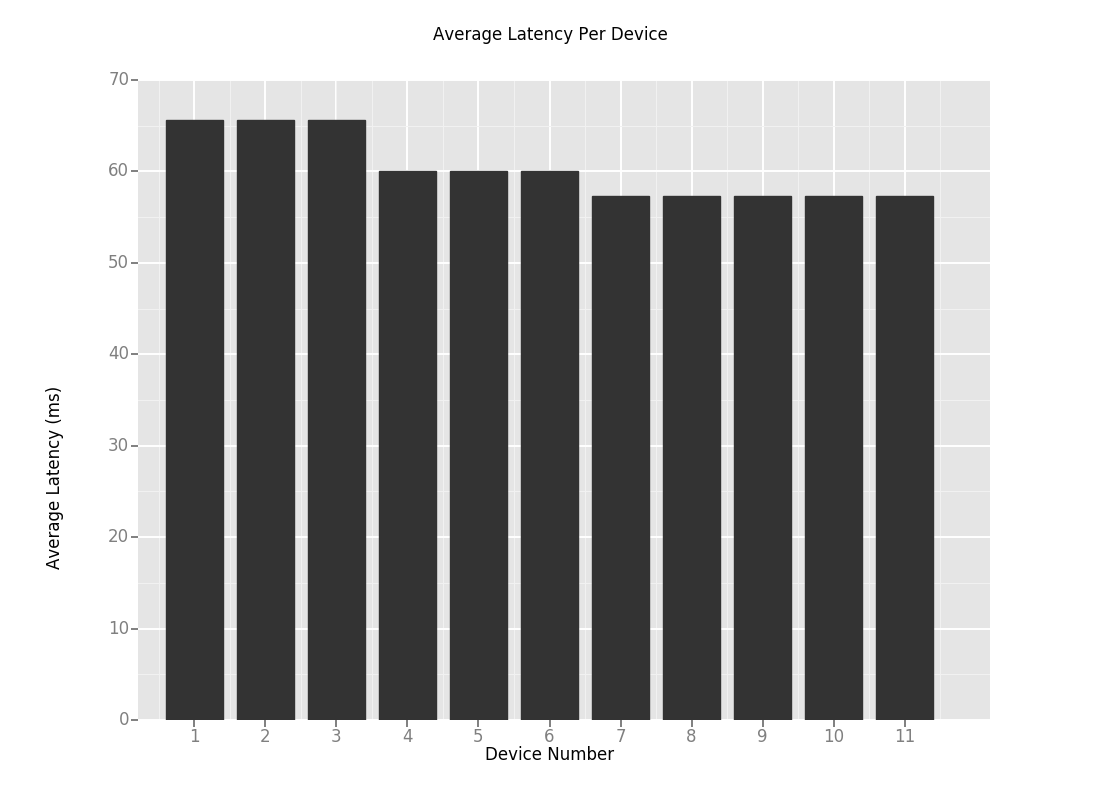
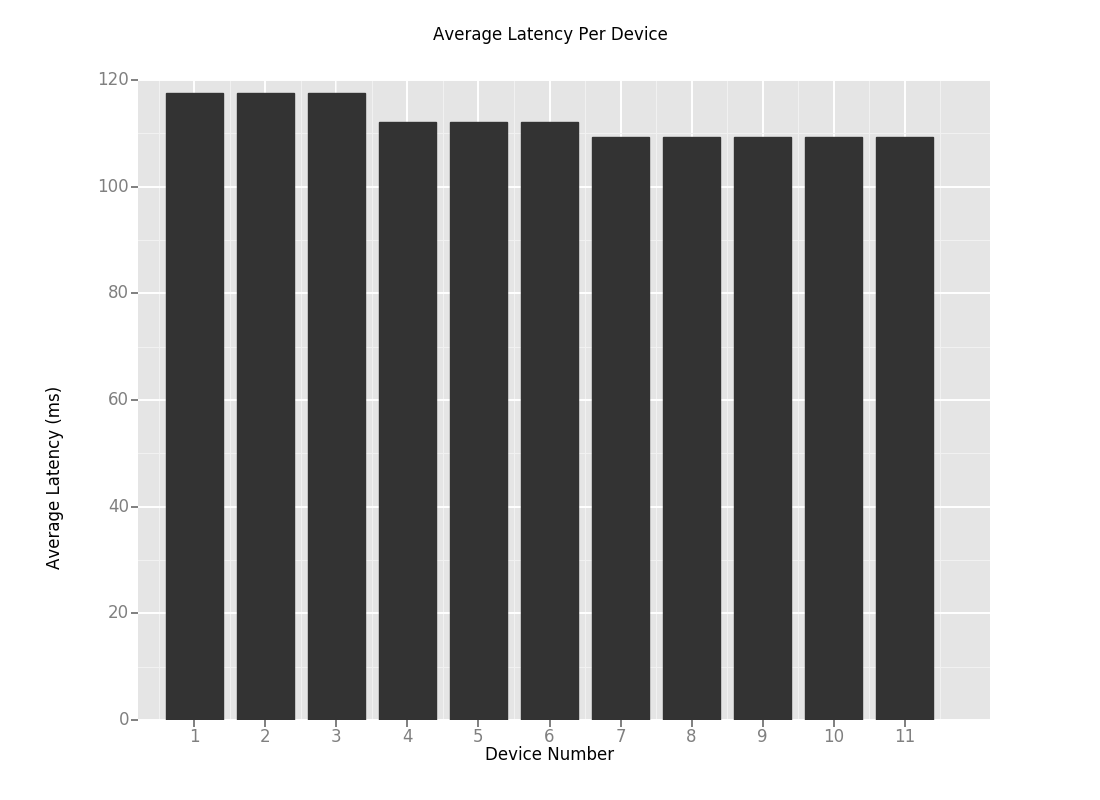
Working 100%ish

diff --git a/packet.py b/packet.py
@@ -20,7 +20,9 @@ class Packet(object):
         return self.timestamp + self.elapsedTime
 
     def deepcopy(self):
-        return Packet(self.timestamp, self.receiver, self.sender, self.packet_id)
+        p = Packet(self.timestamp, self.receiver, self.sender, self.packet_id)
+        p.addLatency(self.elapsedTime)
+        return p
 
 # Packet priority queue, with packets ordered by arrival time
 class PacketQueue(object):

diff --git a/cloud.py b/cloud.py
@@ -23,8 +23,6 @@ class Cloud(object):
 				and self.requestList.next().isReady(self.time) \
 				and len(responsePackets) <= MAX_PACKETS_PER_STEP:
 			headPacket = self.requestList.pop()
-			if headPacket.arriveTime() < self.time:
-				headPacket.addLatency(self.time - headPacket.arriveTime())
 			for i in xrange(1, self.num_players + 1):
 				newPacket = headPacket.deepcopy()
 				newPacket.sender = 0
